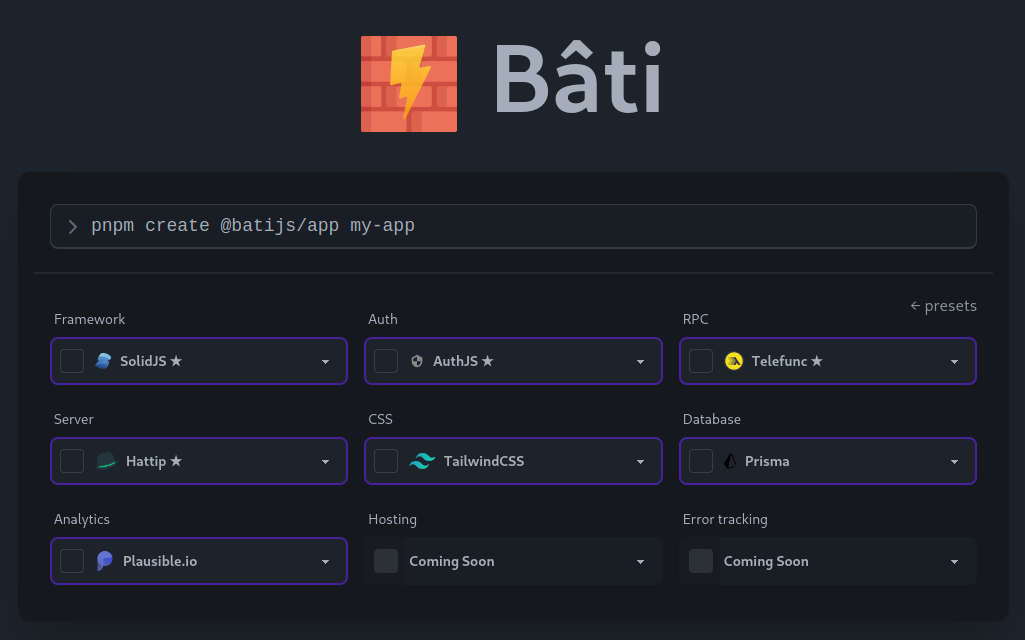
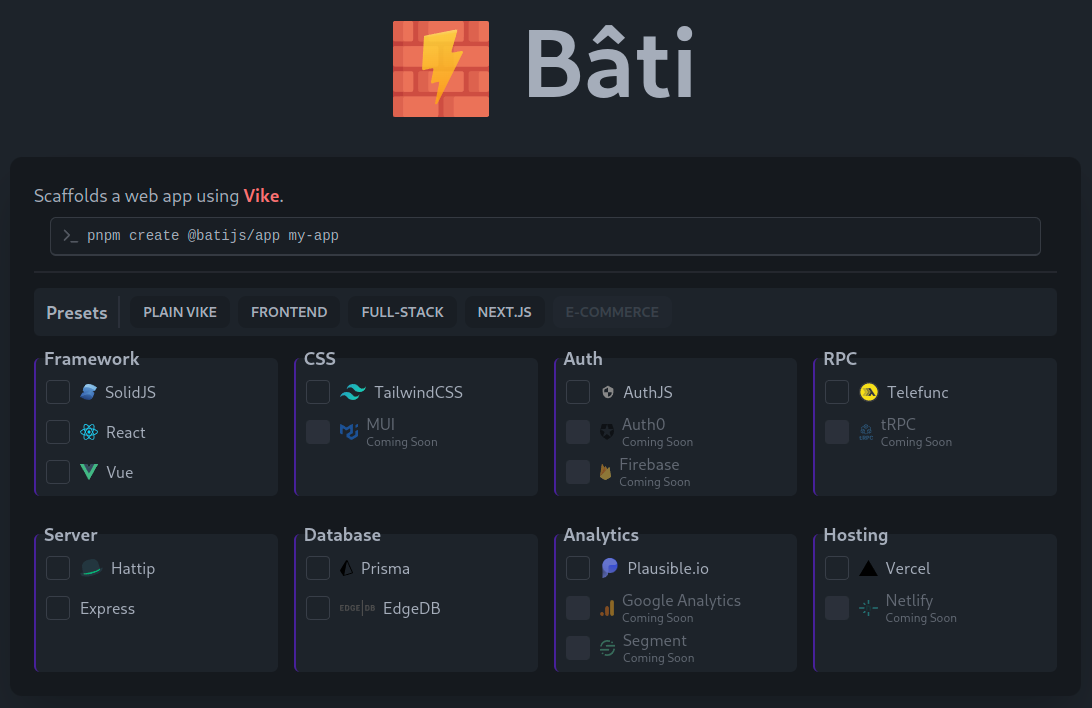
chore: update image and hattip

diff --git a/packages/boilerplates/hattip/files/hattip-entry.ts b/packages/boilerplates/hattip/files/hattip-entry.ts
@@ -77,11 +77,7 @@ router.use(async (context) => {
 
   return new Response(await response?.getBody(), {
     status: response?.statusCode,
-    headers: response
-      ? {
-          "content-type": response.contentType,
-        }
-      : {},
+    headers: response?.headers,
   });
 });
 
